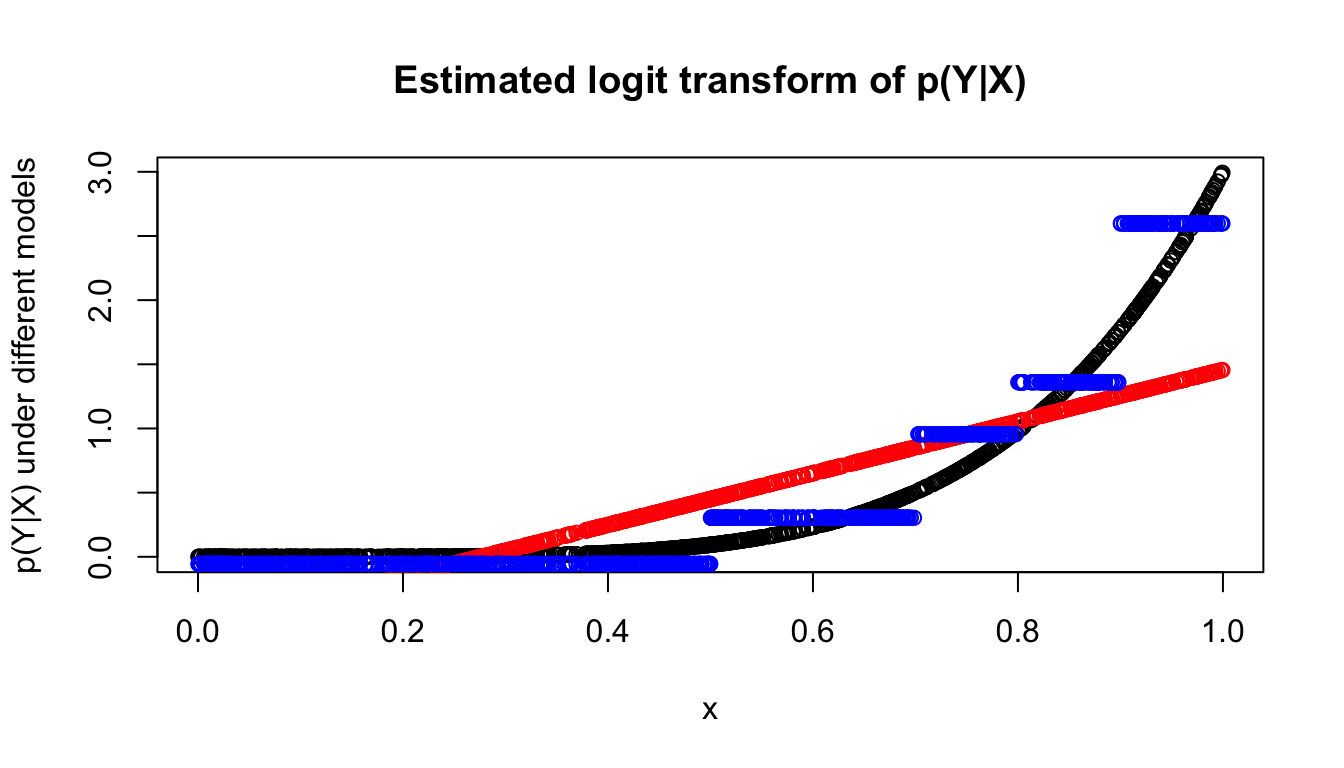
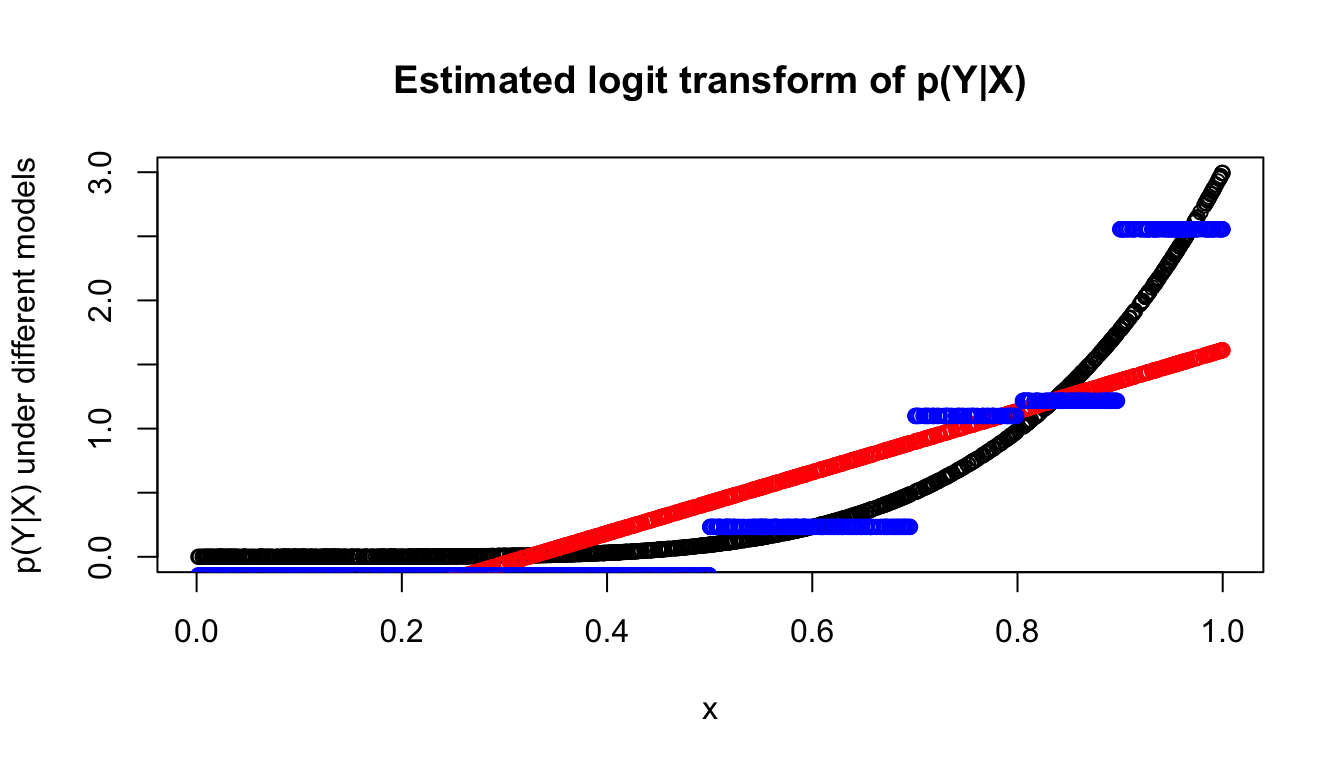
some updates related to NOTE on CRAN submission for a deprecated link in the vignette

diff --git a/docs/articles/glmdisc.html b/docs/articles/glmdisc.html
@@ -73,7 +73,7 @@
       <h1 data-toc-skip>The <code>glmdisc</code> package: discretization at its finest</h1>
                         <h4 class="author">Adrien Ehrhardt</h4>
             
-            <h4 class="date">2020-08-26</h4>
+            <h4 class="date">2020-09-22</h4>
       
       <small class="dont-index">Source: <a href="https://github.com/adimajo/glmdisc/blob/master/vignettes/glmdisc.Rmd"><code>vignettes/glmdisc.Rmd</code></a></small>
       <div class="hidden name"><code>glmdisc.Rmd</code></div>
@@ -85,7 +85,7 @@
 <div id="context" class="section level1">
 <h1 class="hasAnchor">
 <a href="#context" class="anchor"></a>Context</h1>
-<p>This research has been financed by Crédit Agricole Consumer Finance (CA CF), subsidiary of the Crédit Agricole Group which provides all kinds of banking and insurance services. CA CF specializes in consumer loans. It is a joint work at <a href="https://www.inria.fr/en/centre/lille">Inria Nord-Europe</a> between Adrien Ehrhardt (CA CF, Inria), Christophe Biernacki (Inria, Lille University), Vincent Vandewalle (Inria, Lille University) and Philippe Heinrich (Lille University).</p>
+<p>This research has been financed by Crédit Agricole Consumer Finance (CA CF), subsidiary of the Crédit Agricole Group which provides all kinds of banking and insurance services. CA CF specializes in consumer loans. It is a joint work at <a href="https://www.inria.fr/en/centre-inria-lille-nord-europe">Inria Nord-Europe</a> between Adrien Ehrhardt (CA CF, Inria), Christophe Biernacki (Inria, Lille University), Vincent Vandewalle (Inria, Lille University) and Philippe Heinrich (Lille University).</p>
 <p>In order to accept / reject loan applications more efficiently (both quicker and to select better applicants), most financial institutions resort to Credit Scoring: given the applicant’s characteristics he/she is given a Credit Score, which has been statistically designed using previously accepted applicants, and which partly decides whether the financial institution will grant the loan or not.</p>
 <p>The current methodology for building a Credit Score in most financial institutions is based on logistic regression for several (mostly practical) reasons: it generally gives satisfactory discriminant results, it is reasonably well explainable (contrary to a random forest for example), it is robust to missing data (in particular not financed clients) that follow a MAR missingness mechanism.</p>
 <div id="example" class="section level2">
@@ -180,28 +180,28 @@
 </tr></thead>
 <tbody>
 <tr class="odd">
-<td align="right">0.5007289</td>
-<td align="right">0.4865701</td>
+<td align="right">0.7940065</td>
+<td align="right">0.7790968</td>
 </tr>
 <tr class="even">
-<td align="right">0.5001627</td>
-<td align="right">0.4541247</td>
+<td align="right">0.5000144</td>
+<td align="right">0.3781499</td>
 </tr>
 <tr class="odd">
-<td align="right">0.8171524</td>
-<td align="right">0.7676885</td>
+<td align="right">0.8933469</td>
+<td align="right">0.8105306</td>
 </tr>
 <tr class="even">
-<td align="right">0.5587921</td>
-<td align="right">0.6580008</td>
+<td align="right">0.6341844</td>
+<td align="right">0.7165007</td>
 </tr>
 <tr class="odd">
-<td align="right">0.5926925</td>
-<td align="right">0.6838867</td>
+<td align="right">0.5545457</td>
+<td align="right">0.6551773</td>
 </tr>
 <tr class="even">
-<td align="right">0.9215439</td>
-<td align="right">0.7987942</td>
+<td align="right">0.5814640</td>
+<td align="right">0.6816187</td>
 </tr>
 </tbody>
 </table>
@@ -219,34 +219,34 @@
 </tr></thead>
 <tbody>
 <tr class="odd">
-<td align="right">0.5007289</td>
-<td align="right">0.4865701</td>
-<td align="right">0.4861111</td>
+<td align="right">0.7940065</td>
+<td align="right">0.7790968</td>
+<td align="right">0.7714286</td>
 </tr>
 <tr class="even">
-<td align="right">0.5001627</td>
-<td align="right">0.4541247</td>
-<td align="right">0.4861111</td>
+<td align="right">0.5000144</td>
+<td align="right">0.3781499</td>
+<td align="right">0.4640777</td>
 </tr>
 <tr class="odd">
-<td align="right">0.8171524</td>
-<td align="right">0.7676885</td>
-<td align="right">0.7956989</td>
+<td align="right">0.8933469</td>
+<td align="right">0.8105306</td>
+<td align="right">0.9279279</td>
 </tr>
 <tr class="even">
-<td align="right">0.5587921</td>
-<td align="right">0.6580008</td>
-<td align="right">0.5754717</td>
+<td align="right">0.6341844</td>
+<td align="right">0.7165007</td>
+<td align="right">0.7500000</td>
 </tr>
 <tr class="odd">
-<td align="right">0.5926925</td>
-<td align="right">0.6838867</td>
-<td align="right">0.5754717</td>
+<td align="right">0.5545457</td>
+<td align="right">0.6551773</td>
+<td align="right">0.5580110</td>
 </tr>
 <tr class="even">
-<td align="right">0.9215439</td>
-<td align="right">0.7987942</td>
-<td align="right">0.9306931</td>
+<td align="right">0.5814640</td>
+<td align="right">0.6816187</td>
+<td align="right">0.5580110</td>
 </tr>
 </tbody>
 </table>
@@ -463,7 +463,7 @@
 <span class="co">#&gt; Dummy Variable Object</span>
 <span class="co">#&gt; </span>
 <span class="co">#&gt; Formula: ~V1 + V2 + V3</span>
-<span class="co">#&gt; &lt;environment: 0x7faf4d16f8f0&gt;</span>
+<span class="co">#&gt; &lt;environment: 0x7fadf2b63520&gt;</span>
 <span class="co">#&gt; 3 variables, 3 factors</span>
 <span class="co">#&gt; Variables and levels will be separated by '_'</span>
 <span class="co">#&gt; A less than full rank encoding is used</span>

diff --git a/docs/index.html b/docs/index.html
@@ -93,7 +93,7 @@
 <a href="#installation" class="anchor"></a>Installation</h2>
 <p>You can install the development version of <code>glmdisc</code> from Github with:</p>
 <div class="sourceCode" id="cb1"><pre class="r"><span class="co"># install.packages("devtools")</span>
-<span class="kw pkg">devtools</span><span class="kw ns">::</span><span class="fu"><a href="https://rdrr.io/pkg/devtools/man/remote-reexports.html">install_github</a></span>(<span class="st">"adimajo/glmdisc"</span>, <span class="kw">build_vignettes</span> <span class="kw">=</span> <span class="fl">TRUE</span>)</pre></div>
+<span class="kw pkg">devtools</span><span class="kw ns">::</span><span class="fu"><a href="https://devtools.r-lib.org//reference/remote-reexports.html">install_github</a></span>(<span class="st">"adimajo/glmdisc"</span>, <span class="kw">build_vignettes</span> <span class="kw">=</span> <span class="fl">TRUE</span>)</pre></div>
 <p>Or alternatively directly from CRAN:</p>
 <div class="sourceCode" id="cb2"><pre class="r"><span class="fu"><a href="https://rdrr.io/r/utils/install.packages.html">install.packages</a></span>(<span class="st">"glmdisc"</span>)</pre></div>
 </div>
